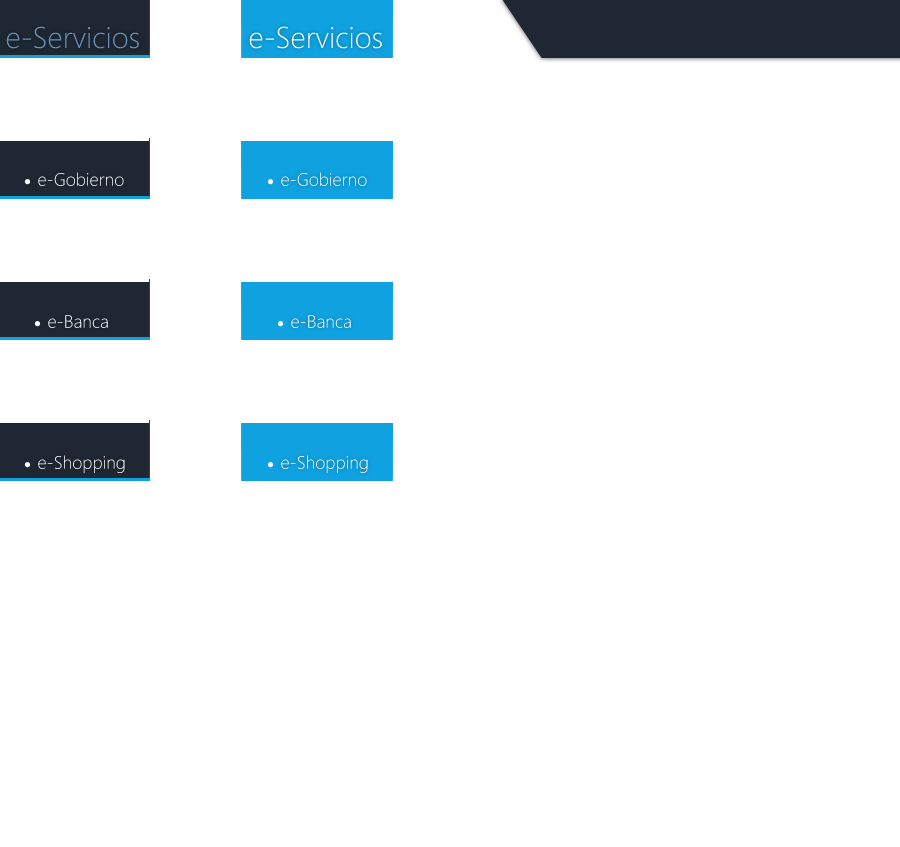
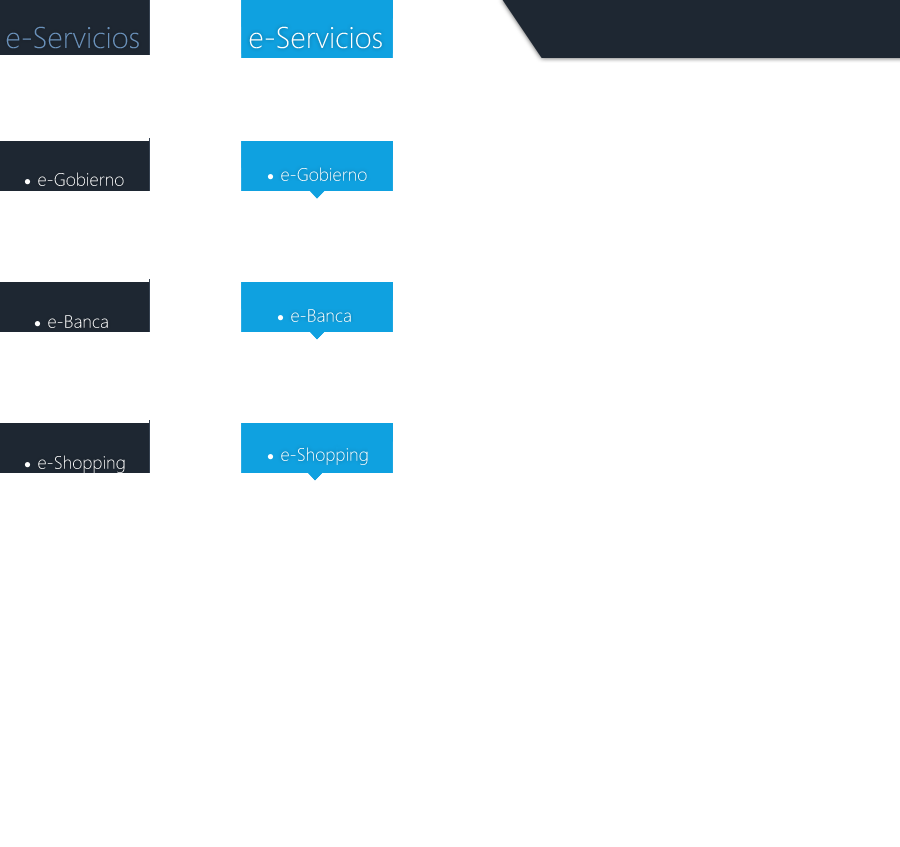
Menú modificado, arreglados copies de piso

diff --git a/assets/css/main.css b/assets/css/main.css
@@ -342,11 +342,13 @@ section.menu .ascensorLink .span, section.menu .ascensorLink h2{
 }
 
 #menu-top {
-    background: url("../images/remates.png") no-repeat scroll 0 0 transparent;
+    background: url("../images/remates.png") no-repeat scroll 0 1px transparent;
     display: block;
-    height: 58px;
+    height: 70px;
     margin: 0 auto;
     padding: 0 60px;
+    position: relative;
+    top: -25px;
     width: 605px;
 }
 #menu-top li {
@@ -354,47 +356,51 @@ section.menu .ascensorLink .span, section.menu .ascensorLink h2{
     color: transparent;
     cursor: pointer;
     float: left;
-    height: 58px;
+    height: 70px;
     list-style: none outside none;
     text-indent: -1e+8px;
     width: 150px;
     
 }
 #menu-top li.home{
-    background: url("../images/navii.png") no-repeat scroll 0 0 transparent;
+    background: url("../images/navii.png") no-repeat scroll 7px 3px transparent;
 }
 #menu-top li.eBanca:hover, #menu-top li.eBanca.ascensorLinkActive {
-    background: url("../images/navii.png") no-repeat scroll -243px -282px transparent;
+    background: url("../images/navii.png") no-repeat scroll -243px -274px transparent;
 }
 #menu-top li.eBanca {
-    background: url("../images/navii.png") no-repeat scroll 0 -282px transparent;
+    background: url("../images/navii.png") no-repeat scroll 1px -278px transparent;
 }
 #menu-top li.eGobierno:hover, #menu-top li.eGobierno.ascensorLinkActive {
-    background: url("../images/navii.png") no-repeat scroll -243px -141px transparent;
+    background: url("../images/navii.png") no-repeat scroll -243px -133px transparent;
 }
 #menu-top li.eGobierno {
-    background: url("../images/navii.png") no-repeat scroll 0 -141px transparent;
+    background: url("../images/navii.png") no-repeat scroll 2px -137px transparent;
 }
 #menu-top li.eShopping:hover, #menu-top li.eShopping.ascensorLinkActive {
-    background: url("../images/navii.png") no-repeat scroll -243px -423px transparent;
+    background: url("../images/navii.png") no-repeat scroll -243px -414px transparent;
 }
 #menu-top li.eShopping {
-    background: url("../images/navii.png") no-repeat scroll 0 -423px transparent;
+    background: url("../images/navii.png") no-repeat scroll 3px -420px transparent;
 }
 nav{
-	position: fixed;
-	text-align: center;
-	width: 100%;
-	z-index: 11;
 	display: none;
+    overflow: hidden;
+    position: fixed;
+    text-align: center;
+    width: 100%;
+    z-index: 11;
 }
 #navmenu{
-	margin: auto;
+	height: 50px;
+    margin: auto;
+    overflow: hidden;
 }
 
 .section-wrapper {
     margin: auto;
     width: 810px;
+    height: 394px;
 }
 #ascensorFloor1 .section-wrapper{
 	width: 580px;
@@ -1000,7 +1006,7 @@ element.style {
 	margin-right: 15px;
 }
 .sharer div.twitter{
-	margin-top: 1px;
+	margin-top: -2px;
 }
 
 /*rollOver effect*/

diff --git a/application/views/node/premiumProduct.html b/application/views/node/premiumProduct.html
@@ -1,7 +1,7 @@
 {{each items}}
 <div class="premiumProductFull product${nid}">
 
-<div class="columnLightBox_image left premiumProductFull product${nid}"> <img src="${foto_del_producto}" title="T: ${title}"></div>
+<div class="columnLightBox_image left premiumProductFull product${nid}"> <img src="${foto_del_producto}" title="${title}"></div>
 
 <div class="columnLightBox_data left">
 <h2>${title}</h2>
@@ -28,11 +28,10 @@
 </div>
 <div class="sharer">
 	<div class="facebook left">
-		<img src="assets/images/facebook-c.png" onclick="share.fb.item('e-Servicios ${title}' , top.location , '${image}' , '${title}' , '${body}');"/>
+		<img src="assets/images/facebook-c.png" onclick="share.fb.item('${title}',top.location.protocol+'//'+top.location.host+top.location.pathname+'?nid=${$nid}'+top.location.hash,'${foto_del_producto}','e-Servicios','${body}');"/>
 	</div>
 	<div class="twitter left">
-		<a href="https://twitter.com/share" class="twitter-share-button" data-text="${title}" data-lang="es" data-count="none">Twittear</a>
-		<script>!function(d,s,id){var js,fjs=d.getElementsByTagName(s)[0];if(!d.getElementById(id)){js=d.createElement(s);js.id=id;js.src="https://platform.twitter.com/widgets.js";fjs.parentNode.insertBefore(js,fjs);}}(document,"script","twitter-wjs");</script>
+		<img src="assets/images/twittear.png" onclick="share.tw.item('${title}',top.location.protocol+'//'+top.location.host+top.location.pathname+'?nid=${$nid}'+top.location.hash);"/>
 	</div>
 	<div class="clear">
 	</div>

diff --git a/application/views/home/floor.html b/application/views/home/floor.html
@@ -4,7 +4,7 @@
 		<div class="floorHome floorContent">
 <!--<div id="titulos" class="icon_header"><h1></h1></div>-->
 
-	    	<div class="titulos"><h1>Piso ${descr}</h1> </div>
+	    	<div class="titulos"><h1>${name}</h1> </div>
 
 	    	<div class="left ${cnf.holders.blogCnt}"></div>
 	    	<div class="left ${cnf.holders.prmCnt}"></div>
@@ -21,8 +21,7 @@
 			<img src="assets/images/facebook-c.png" onclick="share.fb.floor('${name}');"/>
 		</div>
 		<div class="twitter left">
-			<a href="https://twitter.com/share" class="twitter-share-button" data-text="e-Servicios ${name}" data-lang="es" data-count="none">Twittear</a>
-			<script>!function(d,s,id){var js,fjs=d.getElementsByTagName(s)[0];if(!d.getElementById(id)){js=d.createElement(s);js.id=id;js.src="https://platform.twitter.com/widgets.js";fjs.parentNode.insertBefore(js,fjs);}}(document,"script","twitter-wjs");</script>
+			<img src="assets/images/twittear.png" onclick="share.tw.floor('${name}');"/>
 		</div>
 		<div class="clear">
 		</div>

diff --git a/application/views/home/menubig.html b/application/views/home/menubig.html
@@ -35,8 +35,7 @@
 					<img src="assets/images/facebook-c.png" onclick="share.fb.floor('e-Banca');"/>
 				</div>
 				<div class="twitter left">
-					<a href="https://twitter.com/share" class="twitter-share-button" data-text="e-Servicios" data-lang="es" data-count="none">Twittear</a>
-					<script>!function(d,s,id){var js,fjs=d.getElementsByTagName(s)[0];if(!d.getElementById(id)){js=d.createElement(s);js.id=id;js.src="https://platform.twitter.com/widgets.js";fjs.parentNode.insertBefore(js,fjs);}}(document,"script","twitter-wjs");</script>
+					<img src="assets/images/twittear.png" onclick="share.tw.floor('e-Banca');"/>
 				</div>
 				<div class="clear">
 				</div>

diff --git a/application/controllers/eservicios.js b/application/controllers/eservicios.js
@@ -204,11 +204,11 @@ nav = {
 	},
 	setVisible:function(visible){
 		if(!visible){
-			$("nav").fadeOut();
-			$("#remate").fadeOut();
+			$("nav").fadeOut("slow");
+			$("#remate").fadeOut("slow");
 		}else{
-			$("nav").fadeIn();
-			$("#remate").fadeIn();
+			$("nav").fadeIn("slow");
+			$("#remate").fadeIn("slow");
 		}
 	}
 }
